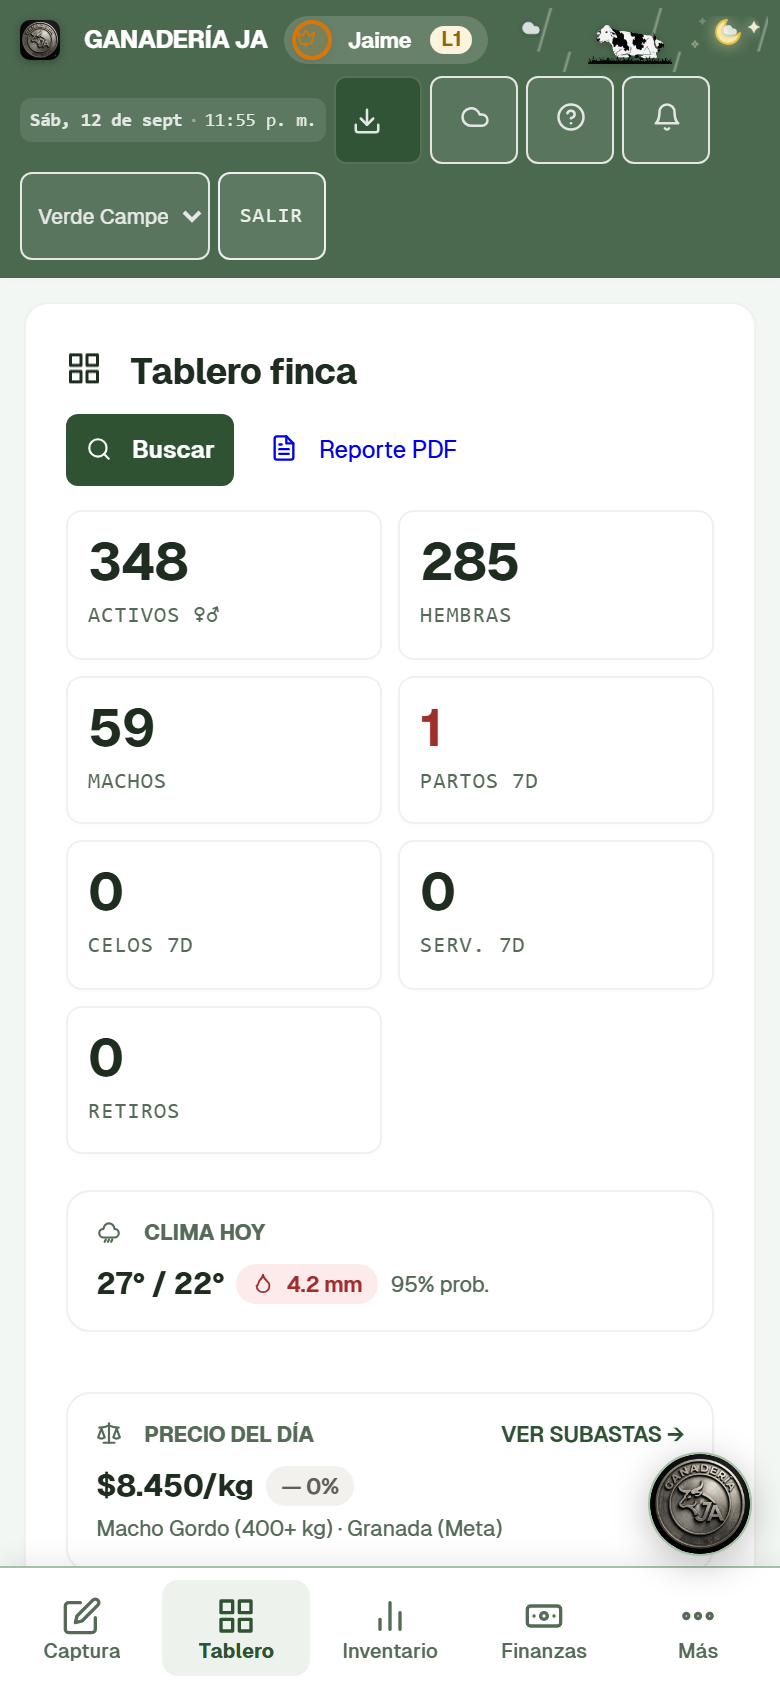
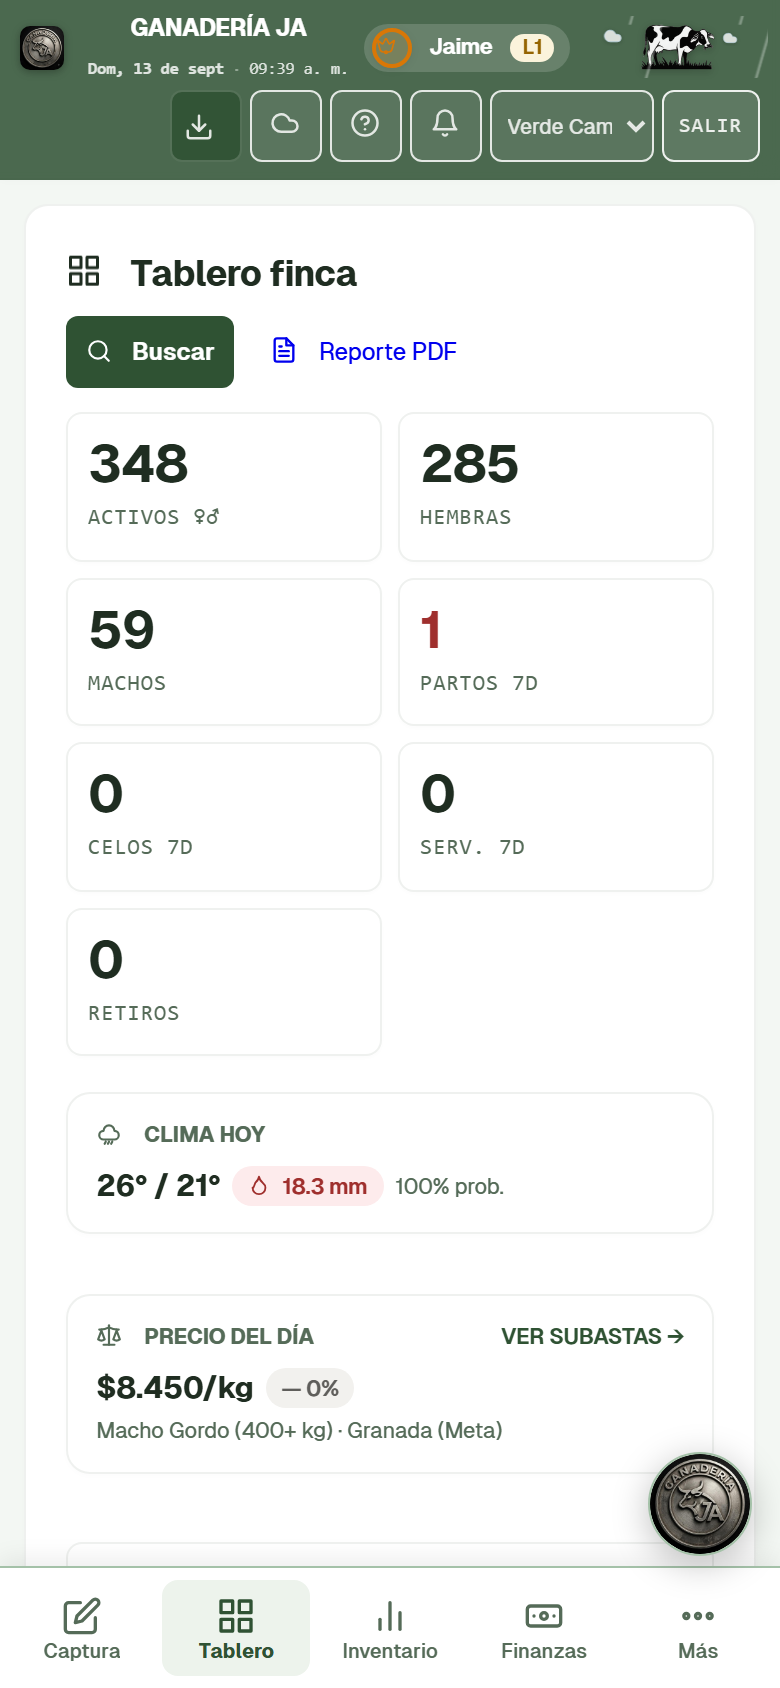
fix mobile header layout to prevent theme and logout buttons wrapping

diff --git a/src/pwa/templates/ficha.html b/src/pwa/templates/ficha.html
@@ -17,10 +17,15 @@
 <body data-tag="{{ tag }}">
 <div id="barra-red">📡 Sin conexión — mostrando datos guardados. Reconectando…</div>
 <header>
-  <span class="marca-titulo"><a href="/" style="text-decoration:none; color:inherit; display:inline-flex; align-items:center; gap:6px;"><img src="/static/logo.jpg" class="logo-ja" alt="Logo Ganadería JA" width="22" height="22">← Tablero</a> · <span style="display:inline-flex; align-items:center; gap:5px;"><svg class="svg-icon" viewBox="0 0 24 24" width="16" height="16" stroke="currentColor" stroke-width="2" stroke-linecap="round" stroke-linejoin="round" fill="none"><path d="M17.8 15.1a10 10 0 0 0 .9-7.1h.3c1.7 0 3-1.3 3-3V3h-3c-1.3 0-2.4.8-2.8 1.9a10 10 0 0 0-8.4 0C7.4 3.8 6.3 3 5 3H2v2c0 1.7 1.3 3 3 3h.3a10 10 0 0 0 .9 7.1M9 9.5v.5m6-.5v.5"/><path d="M15 22a4 4 0 1 0-3-6.6A4 4 0 1 0 9 22Zm-6-4h.01M15 18h.01"/></svg><span>Ficha</span></span> <b>{{ tag }}</b></span>
+  <span class="marca-titulo">
+    <a href="/" style="text-decoration:none; color:inherit; display:inline-flex; align-items:center; gap:6px;"><img src="/static/logo.jpg" class="logo-ja" alt="Logo Ganadería JA" width="22" height="22">← Tablero</a> · 
+    <span class="marca-textos">
+      <span style="display:inline-flex; align-items:center; gap:5px;"><svg class="svg-icon" viewBox="0 0 24 24" width="16" height="16" stroke="currentColor" stroke-width="2" stroke-linecap="round" stroke-linejoin="round" fill="none"><path d="M17.8 15.1a10 10 0 0 0 .9-7.1h.3c1.7 0 3-1.3 3-3V3h-3c-1.3 0-2.4.8-2.8 1.9a10 10 0 0 0-8.4 0C7.4 3.8 6.3 3 5 3H2v2c0 1.7 1.3 3 3 3h.3a10 10 0 0 0 .9 7.1M9 9.5v.5m6-.5v.5"/><path d="M15 22a4 4 0 1 0-3-6.6A4 4 0 1 0 9 22Zm-6-4h.01M15 18h.01"/></svg><span>Ficha</span> <b>{{ tag }}</b></span>
+      <span class="reloj" id="reloj-hora"></span>
+    </span>
+  </span>
   <span class="header-pasto header-pasto-ficha" id="header-pasto" aria-label="Ganado en pastoreo"><span id="header-cielo" class="header-cielo" aria-hidden="true"><span id="header-clima-sol" class="clima-sol" style="display:none;" title="Día soleado"><svg class="svg-sol" viewBox="0 0 24 24" width="20" height="20" fill="none"><circle cx="12" cy="12" r="4.5" fill="#FFD159" stroke="#FFA726" stroke-width="1.5"/><path d="M12 2.5v2M12 19.5v2M3.9 3.9l1.5 1.5M18.6 18.6l1.5 1.5M2.5 12h2M19.5 12h2M3.9 20.1l1.5-1.5M18.6 5.4l1.5-1.5" stroke="#FFA726" stroke-width="1.8" stroke-linecap="round"/></svg></span><span id="header-clima-luna" class="clima-luna" style="display:none;" title="Noche serena"><svg class="svg-luna" viewBox="0 0 24 24" width="18" height="18" fill="none"><path d="M21 12.79A9 9 0 1 1 11.21 3 7 7 0 0 0 21 12.79z" fill="#FFF2B2" stroke="#F4C742" stroke-width="1.4" stroke-linecap="round" stroke-linejoin="round"/></svg><span class="estrellita est-1">✦</span><span class="estrellita est-2">✧</span><span class="estrellita est-3">✦</span></span><span id="header-clima-nubes" class="clima-nubes" style="display:none;" title="Cielo nublado"><svg class="svg-nube nube-1" viewBox="0 0 24 24" width="20" height="12"><path d="M17.5 19H9a7 7 0 1 1 6.71-9h1.79a4.5 4.5 0 1 1 0 9Z" class="nube-forma"/></svg><svg class="svg-nube nube-2" viewBox="0 0 24 24" width="15" height="9"><path d="M17.5 19H9a7 7 0 1 1 6.71-9h1.79a4.5 4.5 0 1 1 0 9Z" class="nube-forma"/></svg></span></span><span class="vaca-pista"><span class="vaca-ambula"><span class="vaca-pasta"><img id="header-vaca-img" src="/static/vaca_comiendo.gif?v={{ pwa_v }}" class="vaca-img" alt="Vaca en el potrero" width="48" height="26" title="Toca la vaquita para ver estado rápido"></span></span></span><span id="header-lluvia" class="header-lluvia" style="display:none;" aria-hidden="true"></span><div id="vaca-bubble" class="vaca-speech-bubble" style="display:none;" role="tooltip"></div></span>
   <span class="acciones">
-    <span class="reloj" id="reloj-hora"></span>
     <button id="btn-ayuda" class="tema-btn" title="Centro de Ayuda y Manuales" aria-label="Ayuda"><svg class="svg-icon" viewBox="0 0 24 24" width="15" height="15" stroke="currentColor" stroke-width="2" stroke-linecap="round" stroke-linejoin="round" fill="none"><circle cx="12" cy="12" r="10"/><path d="M9.09 9a3 3 0 0 1 5.83 1c0 2-3 3-3 3"/><line x1="12" y1="17" x2="12.01" y2="17"/></svg></button>
     <select id="select-tema" class="tema-btn" title="Estilo visual" aria-label="Cambiar tema">
       <option value="green">Verde Campestre</option>

diff --git a/src/pwa/templates/index.html b/src/pwa/templates/index.html
@@ -18,10 +18,16 @@
 <body>
 <div id="barra-red">Sin conexión — operando en modo local (los eventos se guardan en cola).</div>
 <header>
-  <span class="marca-titulo"><img src="/static/logo.jpg" class="logo-ja" alt="Logo Ganadería JA" width="28" height="28"><b>GANADERÍA JA</b><span id="user-badge" class="user-badge">...</span></span>
+  <span class="marca-titulo">
+    <img src="/static/logo.jpg" class="logo-ja" alt="Logo Ganadería JA" width="28" height="28">
+    <span class="marca-textos">
+      <b>GANADERÍA JA</b>
+      <span class="reloj" id="reloj-hora"></span>
+    </span>
+    <span id="user-badge" class="user-badge">...</span>
+  </span>
   <span class="header-pasto" id="header-pasto" aria-label="Ganado en pastoreo"><span id="header-cielo" class="header-cielo" aria-hidden="true"><span id="header-clima-sol" class="clima-sol" style="display:none;" title="Día soleado"><svg class="svg-sol" viewBox="0 0 24 24" width="22" height="22" fill="none"><circle cx="12" cy="12" r="4.5" fill="#FFD159" stroke="#FFA726" stroke-width="1.5"/><path d="M12 2.5v2M12 19.5v2M3.9 3.9l1.5 1.5M18.6 18.6l1.5 1.5M2.5 12h2M19.5 12h2M3.9 20.1l1.5-1.5M18.6 5.4l1.5-1.5" stroke="#FFA726" stroke-width="1.8" stroke-linecap="round"/></svg></span><span id="header-clima-luna" class="clima-luna" style="display:none;" title="Noche serena"><svg class="svg-luna" viewBox="0 0 24 24" width="19" height="19" fill="none"><path d="M21 12.79A9 9 0 1 1 11.21 3 7 7 0 0 0 21 12.79z" fill="#FFF2B2" stroke="#F4C742" stroke-width="1.4" stroke-linecap="round" stroke-linejoin="round"/></svg><span class="estrellita est-1">✦</span><span class="estrellita est-2">✧</span><span class="estrellita est-3">✦</span></span><span id="header-clima-nubes" class="clima-nubes" style="display:none;" title="Cielo nublado"><svg class="svg-nube nube-1" viewBox="0 0 24 24" width="22" height="13"><path d="M17.5 19H9a7 7 0 1 1 6.71-9h1.79a4.5 4.5 0 1 1 0 9Z" class="nube-forma"/></svg><svg class="svg-nube nube-2" viewBox="0 0 24 24" width="16" height="10"><path d="M17.5 19H9a7 7 0 1 1 6.71-9h1.79a4.5 4.5 0 1 1 0 9Z" class="nube-forma"/></svg></span></span><span class="vaca-pista"><span class="vaca-ambula"><span class="vaca-pasta"><img id="header-vaca-img" src="/static/vaca_comiendo.gif?v={{ pwa_v }}" class="vaca-img" alt="Vaca en el potrero" width="54" height="29" title="Toca la vaquita para ver estado rápido"></span></span></span><span id="header-lluvia" class="header-lluvia" style="display:none;" aria-hidden="true"></span><div id="vaca-bubble" class="vaca-speech-bubble" style="display:none;" role="tooltip"></div></span>
   <span class="acciones">
-    <span class="reloj" id="reloj-hora"></span>
     <button id="btn-instalar-app" class="tema-btn btn-instalar" title="Instalar Bitácora JA como App en tu celular o PC" style="display:none"><svg class="svg-icon" viewBox="0 0 24 24" width="15" height="15" stroke="currentColor" stroke-width="2" stroke-linecap="round" stroke-linejoin="round" fill="none"><path d="M21 15v4a2 2 0 0 1-2 2H5a2 2 0 0 1-2-2v-4"/><polyline points="7 10 12 15 17 10"/><line x1="12" y1="15" x2="12" y2="3"/></svg><span class="txt-instalar">Instalar App</span></button>
     <button id="btn-sync" class="tema-btn" title="Cola offline de eventos" aria-label="Sincronizar cola"><svg class="svg-icon" viewBox="0 0 24 24" width="15" height="15" stroke="currentColor" stroke-width="2" stroke-linecap="round" stroke-linejoin="round" fill="none"><path d="M17.5 19H9a7 7 0 1 1 6.71-9h1.79a4.5 4.5 0 1 1 0 9Z"/></svg><span id="sync-count" class="nav-badge" style="display:none">0</span></button>
     <button id="btn-ayuda" class="tema-btn" title="Centro de Ayuda y Manuales" aria-label="Ayuda"><svg class="svg-icon" viewBox="0 0 24 24" width="15" height="15" stroke="currentColor" stroke-width="2" stroke-linecap="round" stroke-linejoin="round" fill="none"><circle cx="12" cy="12" r="10"/><path d="M9.09 9a3 3 0 0 1 5.83 1c0 2-3 3-3 3"/><line x1="12" y1="17" x2="12.01" y2="17"/></svg></button>

diff --git a/src/pwa/static/style.css b/src/pwa/static/style.css
@@ -906,43 +906,87 @@ button:active {
     padding-right: calc(10px + env(safe-area-inset-right, 0px));
     gap: 6px;
   }
-  header b { font-size: 12.5px; }
-  header .reloj {
-    display: inline-flex;
-    font-size: 9.5px;
-    padding: 2px 5px;
-    min-height: 22px;
-    opacity: 0.85;
-    order: -1;
-  }
-  header .acciones { gap: 4px; flex-wrap: wrap; }
-  header .tema-btn {
-    min-height: 44px;
-    min-width: 44px;
-    padding: 0 8px;
-    font-size: 11px;
-  }
-  /* Objetivos táctiles >=44px en header (sin tocar escritorio) */
-  header .acciones button {
-    min-height: 44px;
-    min-width: 44px;
-  }
-  header #select-tema {
-    max-width: 95px;
-    font-size: 10.5px;
-    padding: 0 4px;
-  }
-  header a.salir {
-    min-height: 44px;
+  header b { font-size: 12px; line-height: 1.15; }
+  .marca-titulo {
     display: inline-flex;
     align-items: center;
-    padding: 0 10px;
+    gap: 6px;
+    flex-shrink: 0;
+  }
+  .marca-textos {
+    display: flex;
+    flex-direction: column;
+    justify-content: center;
+    line-height: 1.15;
+    gap: 1px;
+  }
+  header .reloj {
+    display: inline-flex;
+    font-size: 8.5px;
+    padding: 0;
+    min-height: 0;
+    background: none;
+    border: none;
+    opacity: 0.82;
+    line-height: 1.1;
+    white-space: nowrap;
+    order: 0;
+  }
+  header .reloj .reloj-sep { opacity: 0.5; margin: 0 1px; }
+  header .acciones {
+    gap: 4px;
+    flex-wrap: nowrap;
+    justify-content: flex-end;
+    width: 100%;
+  }
+  header .tema-btn {
+    min-height: 36px;
+    min-width: 36px;
+    height: 36px;
+    padding: 0 6px;
+    font-size: 11px;
+    box-sizing: border-box;
+  }
+  /* Objetivos táctiles compactos en header móvil para evitar salto a 3 filas */
+  header .acciones button {
+    min-height: 36px;
+    min-width: 36px;
+    height: 36px;
+    padding: 0 6px;
+    box-sizing: border-box;
+  }
+  header #select-tema {
+    max-width: 82px;
     font-size: 10.5px;
+    padding: 0 4px;
+    height: 36px;
+    min-height: 36px;
+    box-sizing: border-box;
+  }
+  header a.salir {
+    min-height: 36px;
+    height: 36px;
+    display: inline-flex;
+    align-items: center;
+    padding: 0 8px;
+    font-size: 10.5px;
+    box-sizing: border-box;
+  }
+  header .btn-instalar {
+    height: 36px;
+    min-height: 36px;
+    min-width: 36px;
+    padding: 0 6px;
+    box-sizing: border-box;
   }
   .logo-ja {
-    width: 20px;
-    height: 20px;
+    width: 22px;
+    height: 22px;
     border-radius: 5px;
+  }
+  .user-badge {
+    font-size: 9.5px;
+    padding: 1px 5px;
   }
   
   #nav-principal {
@@ -1263,6 +1307,7 @@ header .acciones .tema-btn, header .acciones button { position: relative; }
 }
 /* --- Badge de Usuario & Sincronización en Header --- */
 .marca-titulo { display: inline-flex; align-items: center; gap: 8px; }
+.marca-textos { display: inline-flex; align-items: center; gap: 8px; }
 .user-badge {
   font-size: 11px;
   font-weight: 600;

diff --git a/src/server/telegram_bot.py b/src/server/telegram_bot.py
@@ -67,6 +67,7 @@ from .formatters import (
     formatear_balance_forrajero_panel,
     formatear_clima_panel,
     formatear_despacho_matutino,
+    formatear_despacho_tarde,
     formatear_deteccion_potrero_gps,
     formatear_diagnosticos_recientes,
     formatear_duplicados_geneticos,

diff --git a/README.md b/README.md
@@ -596,6 +596,10 @@ y `--imagen ruta.jpg`, además de `--db` para elegir la base SQLite destino.
     - **Resolución multi-canal de presencia**: Helper `_resolver_presencia_usuario` en `src/pwa/app.py` que enlaza la actividad por `user_id` local, `telegram_id` del bot o sesión `"Propietario"` de la PWA, priorizando el canal activo más reciente.
     - **Latido instantáneo y visualización en vivo**: Disparo inmediato de `POST /api/heartbeat` al abrir la PWA, al ingresar a la vista de personal y al presionar "Actualizar Estados"; enriquecimiento de la tarjeta de monitoreo mostrando el contador vivo y los nombres y canales (`Jaime (PWA)`, `Sebastian (Telegram)`) de los operarios conectados.
     - **Test unitario automatizado**: `test_usuarios_presencia_y_monitor_en_linea` en `tests/test_pwa_api.py`.
+- [x] **Optimización Compacta del Header Móvil PWA (2026-09-13)**:
+    - **Reubicación de Fecha/Hora**: Integración de la fecha y hora pequeña (`reloj-hora`) dentro de `.marca-textos` apilada directamente bajo el título `GANADERÍA JA`, eliminando la sobrecarga horizontal en `.acciones`.
+    - **Eliminación de la 3ª Fila en Móvil**: La barra `.acciones` ahora se mantiene estrictamente en 1 sola fila sin desbordes (`flex-wrap: nowrap`), manteniendo los botones de Temas y Salir junto a los íconos (Sync, Ayuda, Notif).
+    - **Recuperación de Espacio Vertical**: Reducción de la altura del header móvil de ~150px a ~80px (ahorro de más de 60px verticales), proporcionando mayor espacio libre en pantalla para el Tablero y modales.
 - [x] Suite de pruebas con pytest: **804 pruebas en verde** (100% pasando).
 
 ### 📋 Hoja de Ruta Pendiente ([Ver Detalle Completo en docs/ROADMAP_FASES_4-8.md](docs/ROADMAP_FASES_4-8.md))
